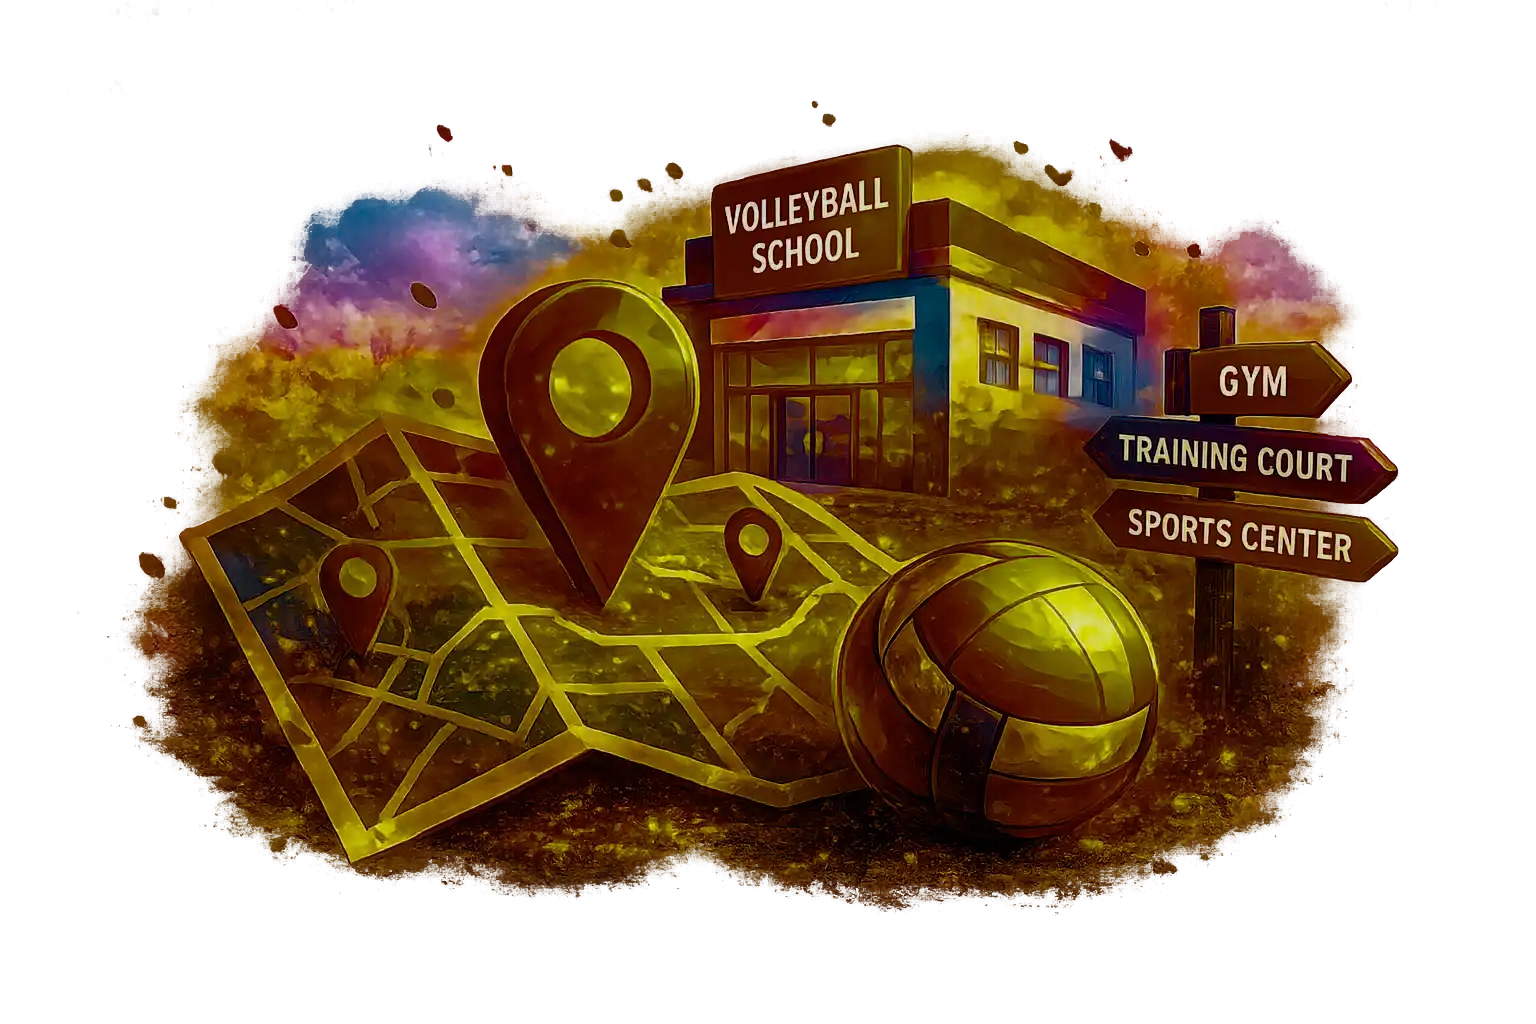
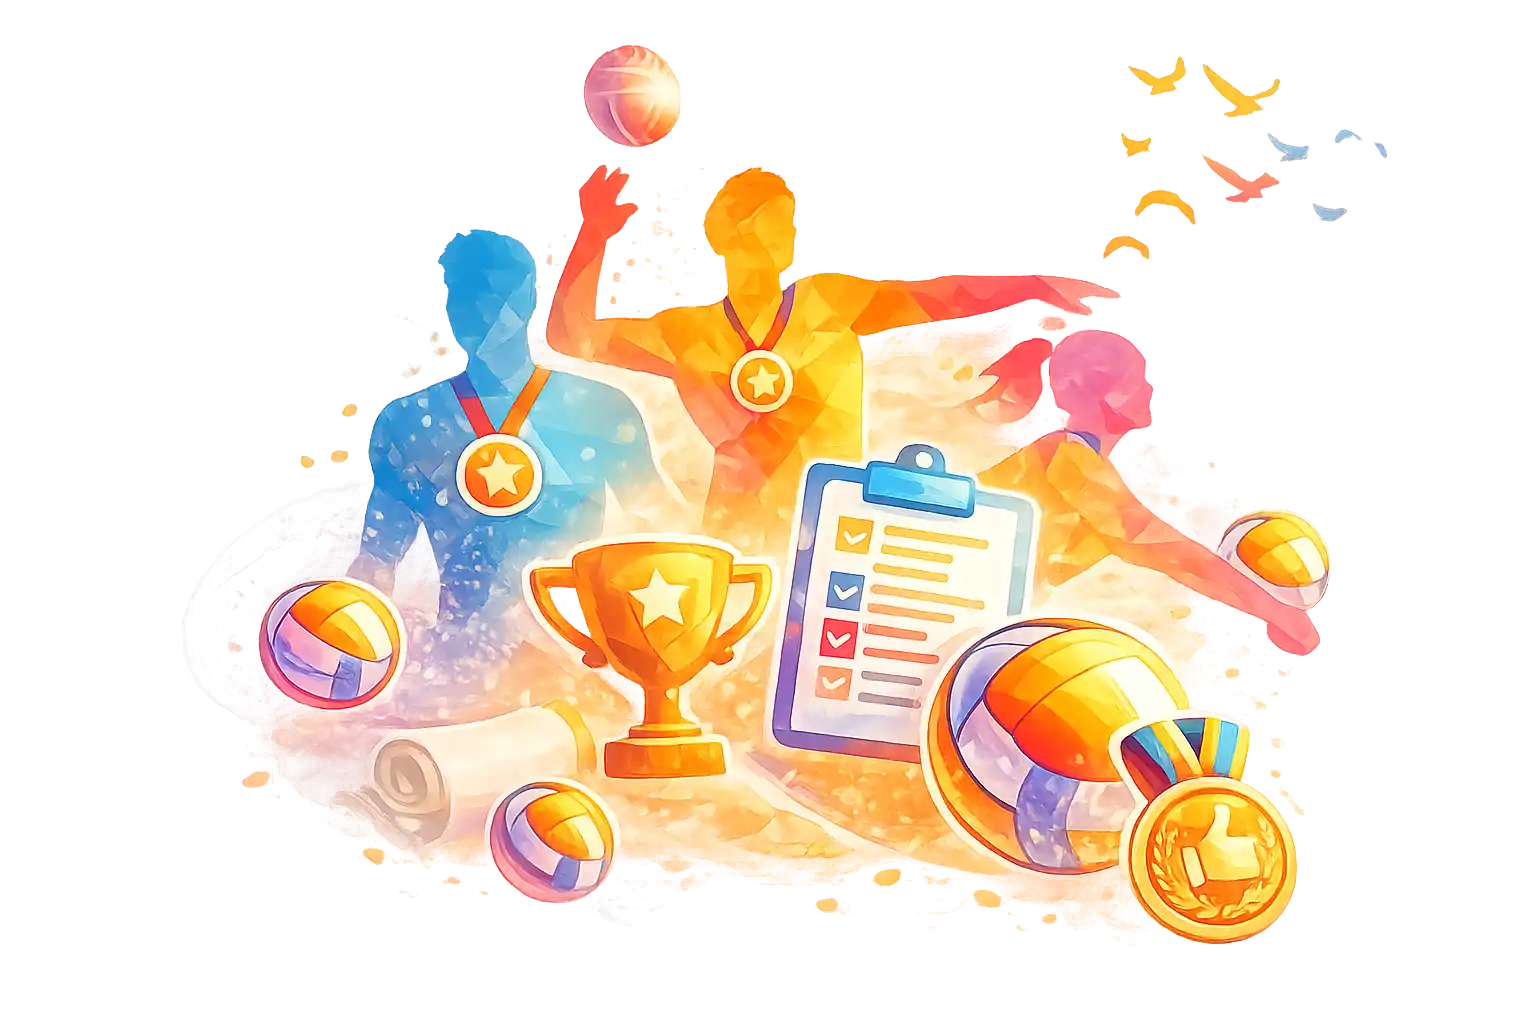
feat(volleyball_school): кастомные картинки для светлой/тёмной темы

diff --git a/backend/resources/views/volleyball_school/index.blade.php b/backend/resources/views/volleyball_school/index.blade.php
@@ -7,6 +7,17 @@
     <x-slot name="h1">{{ __('profile.school_idx_title') }}</x-slot>
     <x-slot name="t_description">{{ __('profile.school_idx_t_description') }}</x-slot>
 
+    <x-slot name="image">
+        <div class="top-section-img" data-aos="fade" data-aos-duration="1000">
+            <div class="top-section-light-img">
+                <img src="/img/volleyball-school-light.webp" alt="img">
+            </div>
+            <div class="top-section-dark-img">
+                <img src="/img/volleyball-school-dark.webp" alt="img">
+            </div>
+        </div>
+    </x-slot>
+
     <x-slot name="breadcrumbs">
         <li itemprop="itemListElement" itemscope itemtype="http://schema.org/ListItem">
             <a href="{{ route('volleyball_school.index') }}" itemprop="item">